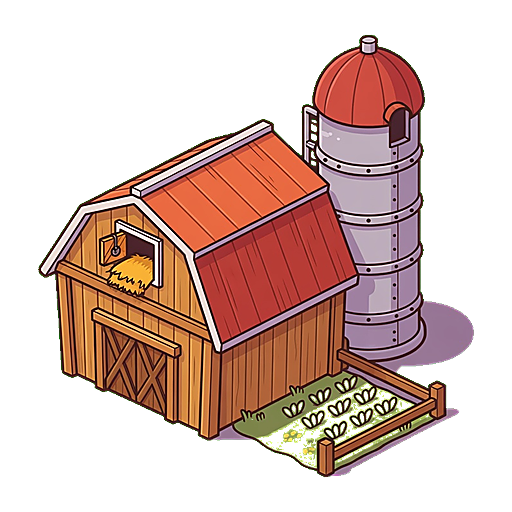
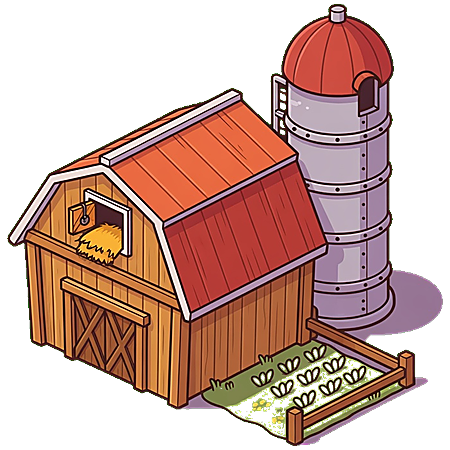
Fix byer plantet i jorden (igen)
Tight-crop place-sprites bottom-aligned, solid jordplade + sink,
mindre skala, cache-bump så gamle sprites ikke genbruges.

diff --git a/js/worlddraw.js b/js/worlddraw.js
@@ -4,7 +4,7 @@
  */
 
 import { drawWaterBodies } from './water.js';
-import { getPlaceSprite, getImageContentBounds, getTileImages } from './assets.js';
+import { getPlaceSprite, getTileImages } from './assets.js';
 import { drawTileMap } from './tilemap.js';
 
 /**
@@ -173,93 +173,79 @@ function drawFarmFields(ctx, d, dpr) {
 
 /**
  * Place hub planted on ground (not floating).
- * Sprite bottom sits on groundY ≈ d.y; shadow tight under base.
+ * Place-sprites er bottom-aligned i PNG; vi planter bunden i groundY + lille sink.
  */
 export function drawPlaceHub(ctx, d, dpr, helpers) {
   const { lightenHex, drawSilhouette } = helpers;
   const type = d.type || 'town';
   const sprite = getPlaceSprite(type, d.spriteKey || null);
-  // Størrelse vokser med hub, men bunden forbliver på jorden (ingen “lift”)
-  const size = d.r * 2.2;
+  // Kompakt størrelse – store isometriske sprites “svæver” hvis de er for store
+  const size = d.r * 1.85;
   const connected = d._connected;
   // Jordkontakt = hub-centrum (veje snapper hertil)
-  const groundY = d.y + 2 * dpr;
+  const groundY = d.y;
   const gc = d.color || '#a8a29e';
 
-  // Soft life ring under place (på jorden)
+  // Solid jord-plade (tydelig base byen står på)
   ctx.beginPath();
-  ctx.ellipse(d.x, groundY, size * 0.4, size * 0.14, 0, 0, Math.PI * 2);
-  const glow = ctx.createRadialGradient(d.x, groundY, 0, d.x, groundY, size * 0.4);
-  glow.addColorStop(0, hexAlpha(gc, 0.2));
-  glow.addColorStop(1, 'rgba(0,0,0,0)');
-  ctx.fillStyle = glow;
+  ctx.ellipse(d.x, groundY + 1 * dpr, size * 0.48, size * 0.18, 0, 0, Math.PI * 2);
+  ctx.fillStyle = 'rgba(28, 25, 23, 0.22)';
   ctx.fill();
+  ctx.beginPath();
+  ctx.ellipse(d.x, groundY, size * 0.4, size * 0.145, 0, 0, Math.PI * 2);
+  const sod = ctx.createRadialGradient(d.x - size * 0.08, groundY - size * 0.04, 0, d.x, groundY, size * 0.42);
+  sod.addColorStop(0, 'rgba(120, 140, 85, 0.55)');
+  sod.addColorStop(0.45, 'rgba(95, 110, 70, 0.4)');
+  sod.addColorStop(1, 'rgba(70, 80, 50, 0.05)');
+  ctx.fillStyle = sod;
+  ctx.fill();
+  // Farvet ring (stedets farve)
+  ctx.beginPath();
+  ctx.ellipse(d.x, groundY, size * 0.36, size * 0.12, 0, 0, Math.PI * 2);
+  ctx.strokeStyle = hexAlpha(gc, 0.45);
+  ctx.lineWidth = 2 * dpr;
+  ctx.stroke();
 
-  // Kontakt-skygge (tæt under bygning – “står på jorden”)
+  // Kontakt-skygge under sprite
   ctx.beginPath();
-  ctx.ellipse(d.x + 2 * dpr, groundY + 3 * dpr, size * 0.42, size * 0.13, 0, 0, Math.PI * 2);
-  ctx.fillStyle = 'rgba(15, 12, 10, 0.28)';
-  ctx.fill();
-  ctx.beginPath();
-  ctx.ellipse(d.x, groundY + 1 * dpr, size * 0.32, size * 0.09, 0, 0, Math.PI * 2);
-  ctx.fillStyle = 'rgba(20, 16, 12, 0.16)';
-  ctx.fill();
-
-  // Lille græs-/jordplade under base
-  ctx.beginPath();
-  ctx.ellipse(d.x, groundY, size * 0.3, size * 0.1, 0, 0, Math.PI * 2);
-  const plate = ctx.createRadialGradient(d.x, groundY - 2 * dpr, 0, d.x, groundY, size * 0.3);
-  plate.addColorStop(0, 'rgba(90, 100, 70, 0.35)');
-  plate.addColorStop(0.65, 'rgba(70, 65, 58, 0.18)');
-  plate.addColorStop(1, 'rgba(70, 65, 58, 0)');
-  ctx.fillStyle = plate;
+  ctx.ellipse(d.x + 3 * dpr, groundY + 4 * dpr, size * 0.36, size * 0.11, 0, 0, Math.PI * 2);
+  ctx.fillStyle = 'rgba(15, 12, 10, 0.3)';
   ctx.fill();
 
   if (sprite && sprite.complete && sprite.naturalWidth > 0) {
-    const b = getImageContentBounds(sprite);
-    if (b && b.w > 4 && b.h > 4) {
-      // Tegn kun indhold; bund af content = groundY (plantet)
-      const aspect = b.w / b.h;
-      const drawH = size * 0.98;
-      const drawW = drawH * aspect;
-      const dx = d.x - drawW / 2;
-      const dy = groundY - drawH;
-      ctx.drawImage(
-        sprite,
-        b.left, b.top, b.w, b.h,
-        dx, dy, drawW, drawH
-      );
-    } else {
-      // Fallback uden crop: bund af billede på jorden
-      ctx.drawImage(sprite, d.x - size / 2, groundY - size, size, size);
-    }
+    // Sprites er bottom-aligned: plant bund i jorden med lille sink (ingen luft under)
+    const nw = sprite.naturalWidth || size;
+    const nh = sprite.naturalHeight || size;
+    const aspect = nw / Math.max(1, nh);
+    const drawH = size;
+    const drawW = drawH * aspect;
+    const sink = drawH * 0.08; // 8% ned i pladen = “står i jorden”
+    const dx = d.x - drawW / 2;
+    const dy = groundY - drawH + sink;
+    ctx.drawImage(sprite, dx, dy, drawW, drawH);
   } else {
     ctx.beginPath();
-    ctx.arc(d.x, groundY - size * 0.22, size * 0.28, 0, Math.PI * 2);
+    ctx.arc(d.x, groundY - size * 0.2, size * 0.26, 0, Math.PI * 2);
     ctx.fillStyle = lightenHex(d.color || '#a8a29e', 0.08);
     ctx.fill();
     drawSilhouette(ctx, d, type);
   }
 
-  // Hub pin (guld) – på jorden, under bygning
+  // Hub pin – lille, foran basen (ikke midt i huset)
   ctx.beginPath();
-  ctx.arc(d.x, groundY, 4.5 * dpr, 0, Math.PI * 2);
-  ctx.fillStyle = 'rgba(251, 191, 36, 0.98)';
+  ctx.arc(d.x, groundY + 1 * dpr, 3.5 * dpr, 0, Math.PI * 2);
+  ctx.fillStyle = 'rgba(251, 191, 36, 0.95)';
   ctx.fill();
-  ctx.strokeStyle = 'rgba(28,25,23,0.45)';
-  ctx.lineWidth = 1.2 * dpr;
+  ctx.strokeStyle = 'rgba(28,25,23,0.4)';
+  ctx.lineWidth = 1 * dpr;
   ctx.stroke();
-  ctx.beginPath();
-  ctx.arc(d.x - 1 * dpr, groundY - 1.2 * dpr, 1.5 * dpr, 0, Math.PI * 2);
-  ctx.fillStyle = 'rgba(255,255,255,0.55)';
-  ctx.fill();
 
   // Connected ring
   if (connected) {
     ctx.beginPath();
-    ctx.arc(d.x, groundY, 7.5 * dpr, 0, Math.PI * 2);
+    ctx.ellipse(d.x, groundY, size * 0.38, size * 0.13, 0, 0, Math.PI * 2);
     ctx.strokeStyle = 'rgba(16, 185, 129, 0.55)';
-    ctx.lineWidth = 1.5 * dpr;
+    ctx.lineWidth = 1.8 * dpr;
     ctx.stroke();
   }
 
@@ -273,34 +259,28 @@ export function drawPlaceHub(ctx, d, dpr, helpers) {
   const tw2 = ctx.measureText(`${icon} ${typeLabel}`.trim()).width;
   const padX = 9 * dpr;
   const bw = Math.max(tw, tw2) + padX * 2 + 4 * dpr;
-  const bh = 30 * dpr;
+  const bh = 28 * dpr;
   const bx = d.x - bw / 2;
-  const by = groundY + 10 * dpr;
+  const by = groundY + 12 * dpr;
 
-  ctx.fillStyle = 'rgba(15,12,10,0.2)';
-  roundRect(ctx, bx + 2 * dpr, by + 3 * dpr, bw, bh, 9 * dpr);
+  ctx.fillStyle = 'rgba(15,12,10,0.18)';
+  roundRect(ctx, bx + 1.5 * dpr, by + 2 * dpr, bw, bh, 8 * dpr);
   ctx.fill();
   ctx.fillStyle = 'rgba(255,255,255,0.94)';
-  roundRect(ctx, bx, by, bw, bh, 9 * dpr);
+  roundRect(ctx, bx, by, bw, bh, 8 * dpr);
   ctx.fill();
-  // accent bar
   ctx.fillStyle = d.color || '#a8a29e';
-  roundRect(ctx, bx, by, 3.8 * dpr, bh, 2 * dpr);
+  roundRect(ctx, bx, by, 3.5 * dpr, bh, 2 * dpr);
   ctx.fill();
-  // top rim
-  ctx.strokeStyle = 'rgba(255,255,255,0.7)';
-  ctx.lineWidth = 1 * dpr;
-  roundRect(ctx, bx + 0.5 * dpr, by + 0.5 * dpr, bw - dpr, bh * 0.45, 8 * dpr);
-  ctx.stroke();
 
   ctx.fillStyle = '#1c1917';
   ctx.font = `bold ${Math.max(10, 11.5 * dpr)}px system-ui, sans-serif`;
   ctx.textAlign = 'center';
   ctx.textBaseline = 'middle';
-  ctx.fillText(label, d.x + 1.5 * dpr, by + 11 * dpr);
+  ctx.fillText(label, d.x + 1.5 * dpr, by + 10 * dpr);
   ctx.font = `${Math.max(8, 8.5 * dpr)}px system-ui, sans-serif`;
   ctx.fillStyle = '#57534e';
-  ctx.fillText(`${icon} ${typeLabel}`.trim(), d.x + 1.5 * dpr, by + 21.5 * dpr);
+  ctx.fillText(`${icon} ${typeLabel}`.trim(), d.x + 1.5 * dpr, by + 20 * dpr);
 }
 
 function hexAlpha(hex, a) {

diff --git a/sw.js b/sw.js
@@ -1,5 +1,5 @@
 /* Flowtown service worker – offline cache for core shell */
-const CACHE = 'flowtown-v5-art3';
+const CACHE = 'flowtown-v6-grounded';
 const PRECACHE = [
   './',
   './index.html',

diff --git a/AGENTS.md b/AGENTS.md
@@ -81,6 +81,7 @@ Distrikter (ca.):
 | 2026-08-04 | Lyst/hvidt skær over skærm efter tid | Atmosphere fog+guld for stærk – lavere alpha, kun kant-tåge |
 | 2026-08-04 | Vej under byer; ingen vej fra havn | Push stroke ud af hub; vand-carve + bugt længere fra havn |
 | 2026-08-04 | Byer så “flyvende” ud | Sprite plantet på jord; alpha-crop padding; skygge under base |
+| 2026-08-04 | Byer fløj stadig (padding/cache) | Tight-crop PNG bottom-align; sink i jordplade; SW cache-bump |
 
 Når du retter en bruger-rapporteret bug: **tilføj en række** i tabellen ovenfor.
 
